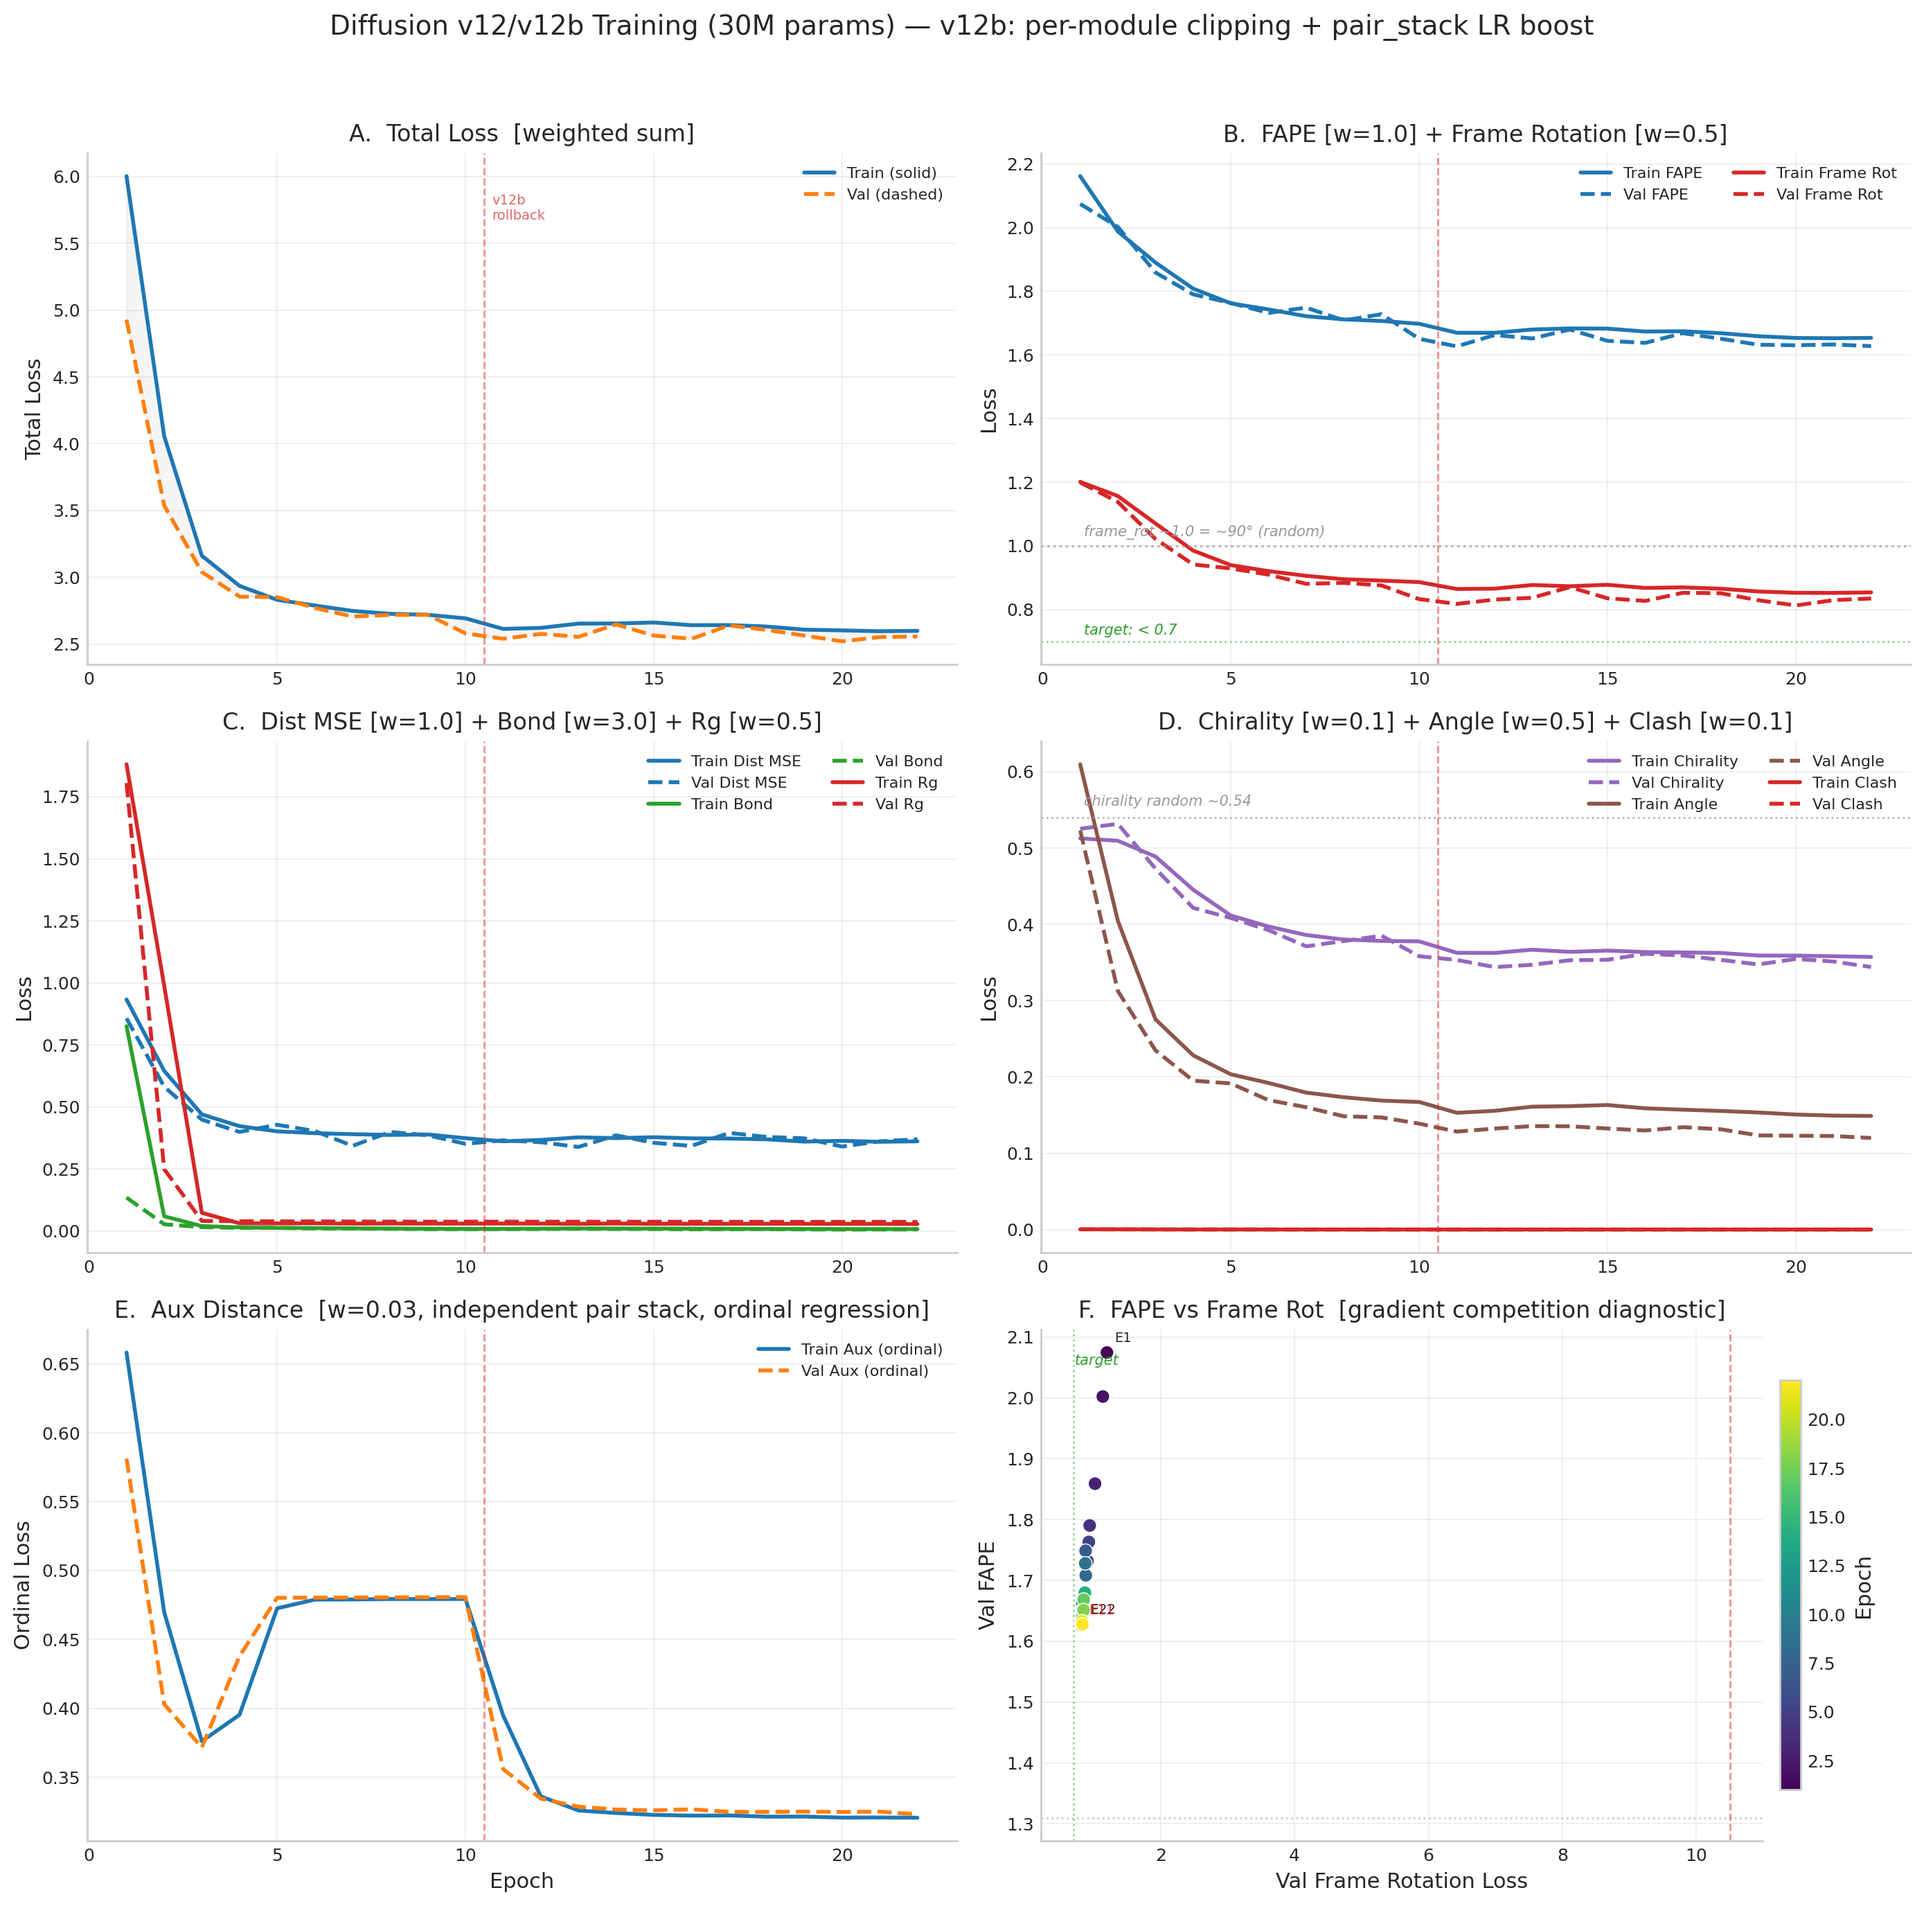
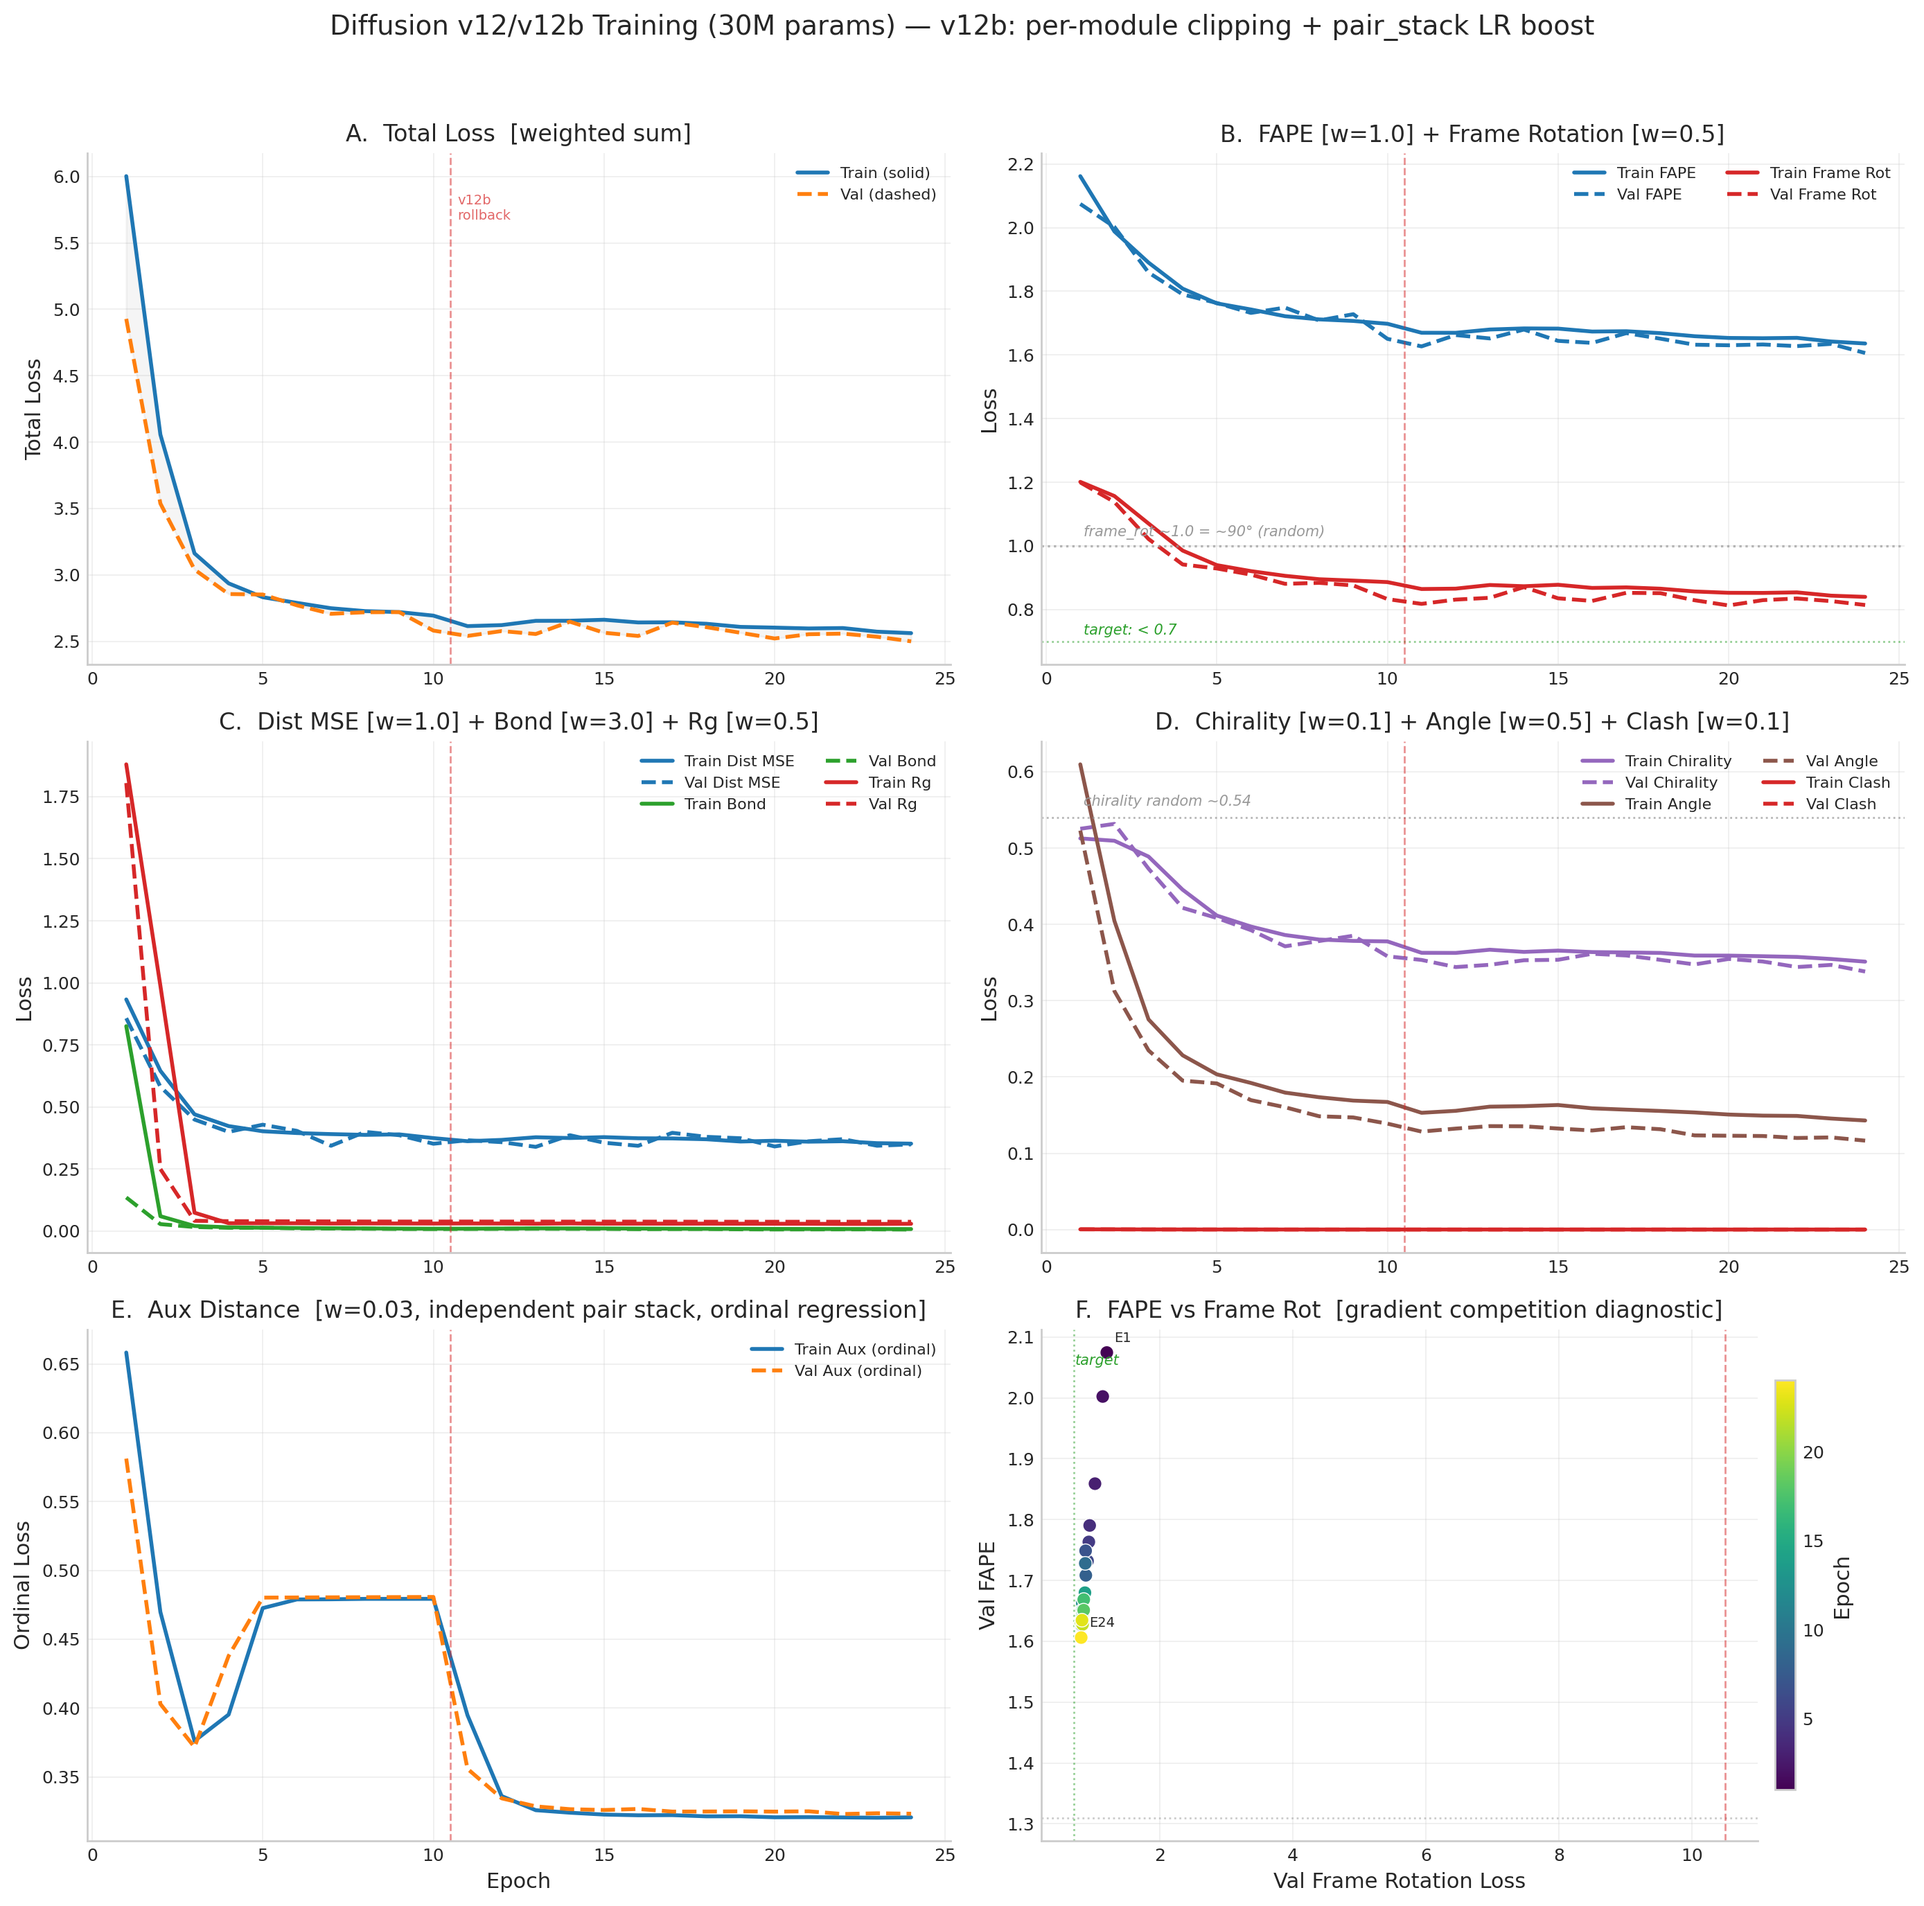
v12b E13-E14: NEW BEST val_total 2.500, FAPE 1.606

diff --git a/index.html b/index.html
@@ -1541,9 +1541,31 @@
                 <td>0.835</td>
                 <td>0.370</td>
                 <td>0.007</td>
-                <td>&mdash;</td>
-                <td>&mdash;</td>
+                <td>0.111</td>
+                <td>16.56&Aring;</td>
                 <td><span class="tag tag-pat">pat 2</span></td>
+              </tr>
+              <tr style="background: rgba(31, 119, 180, 0.12);">
+                <td>b13</td>
+                <td>2.534</td>
+                <td>1.635</td>
+                <td>0.826</td>
+                <td>0.343</td>
+                <td>0.007</td>
+                <td>0.110</td>
+                <td>16.64&Aring;</td>
+                <td><span class="tag tag-pat">pat 3</span></td>
+              </tr>
+              <tr style="background: rgba(31, 119, 180, 0.15);">
+                <td><strong>b14</strong></td>
+                <td style="color: #2ca02c;"><strong>2.500</strong></td>
+                <td style="color: #2ca02c;"><strong>1.606</strong></td>
+                <td style="color: #2ca02c;"><strong>0.814</strong></td>
+                <td style="color: #2ca02c;"><strong>0.349</strong></td>
+                <td style="color: #2ca02c;"><strong>0.006</strong></td>
+                <td>0.107</td>
+                <td>17.13&Aring;</td>
+                <td><span class="tag tag-best">NEW BEST</span></td>
               </tr>
             </tbody>
           </table>
@@ -1756,7 +1778,7 @@
           <strong style="color: #2ca02c;">v12b Training &mdash; E10 NEW BEST, surpasses v12 peak</strong>
           <ul style="margin: 6px 0 6px 18px; font-size: 0.95em;">
             <li><strong>v12b E10 is the new overall best:</strong> val FAPE 1.630, frame_rot 0.813, val_total 2.521, DDIM TM 0.113. Surpasses v12 E10 peak (FAPE 1.651, frame_rot 0.833, TM 0.102) &mdash; per-module clipping is working.</li>
-            <li><strong>Stable through b12:</strong> val_total 2.521 (b10 best) &rarr; 2.553 (b11) &rarr; 2.558 (b12). No regression. b12 val FAPE 1.628 is a new FAPE record (beating b10's 1.630), though total loss slightly higher. Patience at 2/15 &mdash; training healthy.</li>
+            <li><strong>b14 NEW BEST:</strong> val_total 2.500, val FAPE <strong>1.606</strong>, frame_rot 0.814. Continued improvement &mdash; FAPE dropped from 1.630 (b10) to 1.606 (b14), a 1.5% improvement. Training losses also declining (train_total 2.56). No regression through 14 v12b epochs. Patience reset to 0.</li>
             <li><strong>v12 E11-E13 regression diagnosed:</strong> Gradient starvation via global <code>clip_grad_norm_(1.0)</code>. Denoiser (28.5M params) consumed 99%+ of gradient budget. pair_stack_norm collapsed mid-E12: 0.125&rarr;0.007&rarr;0.000.</li>
             <li><strong>Gradient cosine diagnostic confirmed:</strong> No gradient competition. FAPE &amp; frame_rot are <em>aligned</em> (+0.57 cosine). dist_mse is near-orthogonal to both (+0.14). Losses do not oppose each other &mdash; the regression was purely gradient starvation, not conflicting objectives.</li>
             <li><strong>v12b fixes applied (rolling back to E10 EMA weights):</strong>
